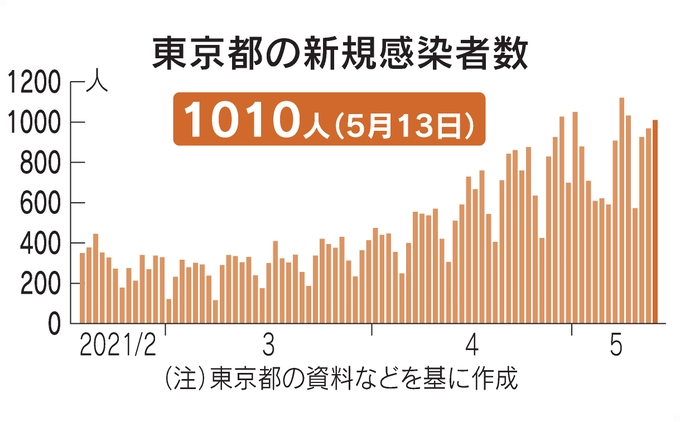
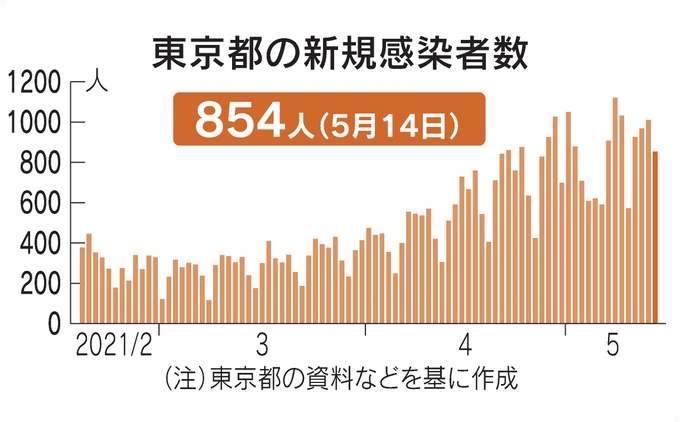
regular update

diff --git a/parts/info.php b/parts/info.php
@@ -10,8 +10,12 @@
     <!-- <li>2021年05月15日</li>
   <div class="info-children"><span><a href="https://developershirai.com/technical-diary.php">TECHNICAL DIARY</a> （基本情報処理技術者試験 ⑯「午前試験　テクノロジ系　過去問⑩」）追加</span></div> -->
 
-    <!-- <li>2021年05月14日</li>
-  <div class="info-children"><span><a href="https://developershirai.com/technical-diary.php">TECHNICAL DIARY</a> （基本情報処理技術者試験 ⑮「午前試験　テクノロジ系　過去問⑨」）追加</span></div> -->
+  
+  <li>2021年05月14日</li>
+  <div class="info-children"><span><a href="gallery.php">PHOTO</a>（日常）更新</span></div>
+
+    <li>2021年05月14日</li>
+  <div class="info-children"><span><a href="https://developershirai.com/technical-diary.php">TECHNICAL DIARY</a> （基本情報処理技術者試験 ⑮「午前試験　テクノロジ系　過去問⑨」）追加</span></div>
 
     <li>2021年05月13日</li>
   <div class="info-children"><span><a href="https://developershirai.com/technical-diary.php">TECHNICAL DIARY</a> （基本情報処理技術者試験 ⑭「午前試験　テクノロジ系　過去問⑧」）追加</span></div>

diff --git a/parts/news.php b/parts/news.php
@@ -46,6 +46,25 @@
         </li>
 
     <hr> -->
+        2021年05月14日
+    
+        <li>
+                <i class="far fa-file-alt"></i>
+                <a href="https://www.nikkei.com/article/DGXZQOCC142270U1A510C2000000/" target="blank" rel="noopener">
+                東京都、新たに854人感染　新型コロナ</a>
+        </li>
+        <li>
+                <i class="far fa-file-alt"></i>
+                <a href="https://www.nikkei.com/article/DGXZQOUA141AG0U1A510C2000000/" target="blank" rel="noopener">
+                北海道・岡山・広島に緊急事態宣言へ　当初案より強化</a>
+        </li>
+        <li>
+                <i class="far fa-file-alt"></i>
+                <a href="https://www.nikkei.com/article/DGXZQOCB1417W0U1A510C2000000/" target="blank" rel="noopener">
+                2回接種ワクチン、異なると副作用が増加　英報告</a>
+        </li>
+
+    <hr>
 
         2021年05月13日
     
